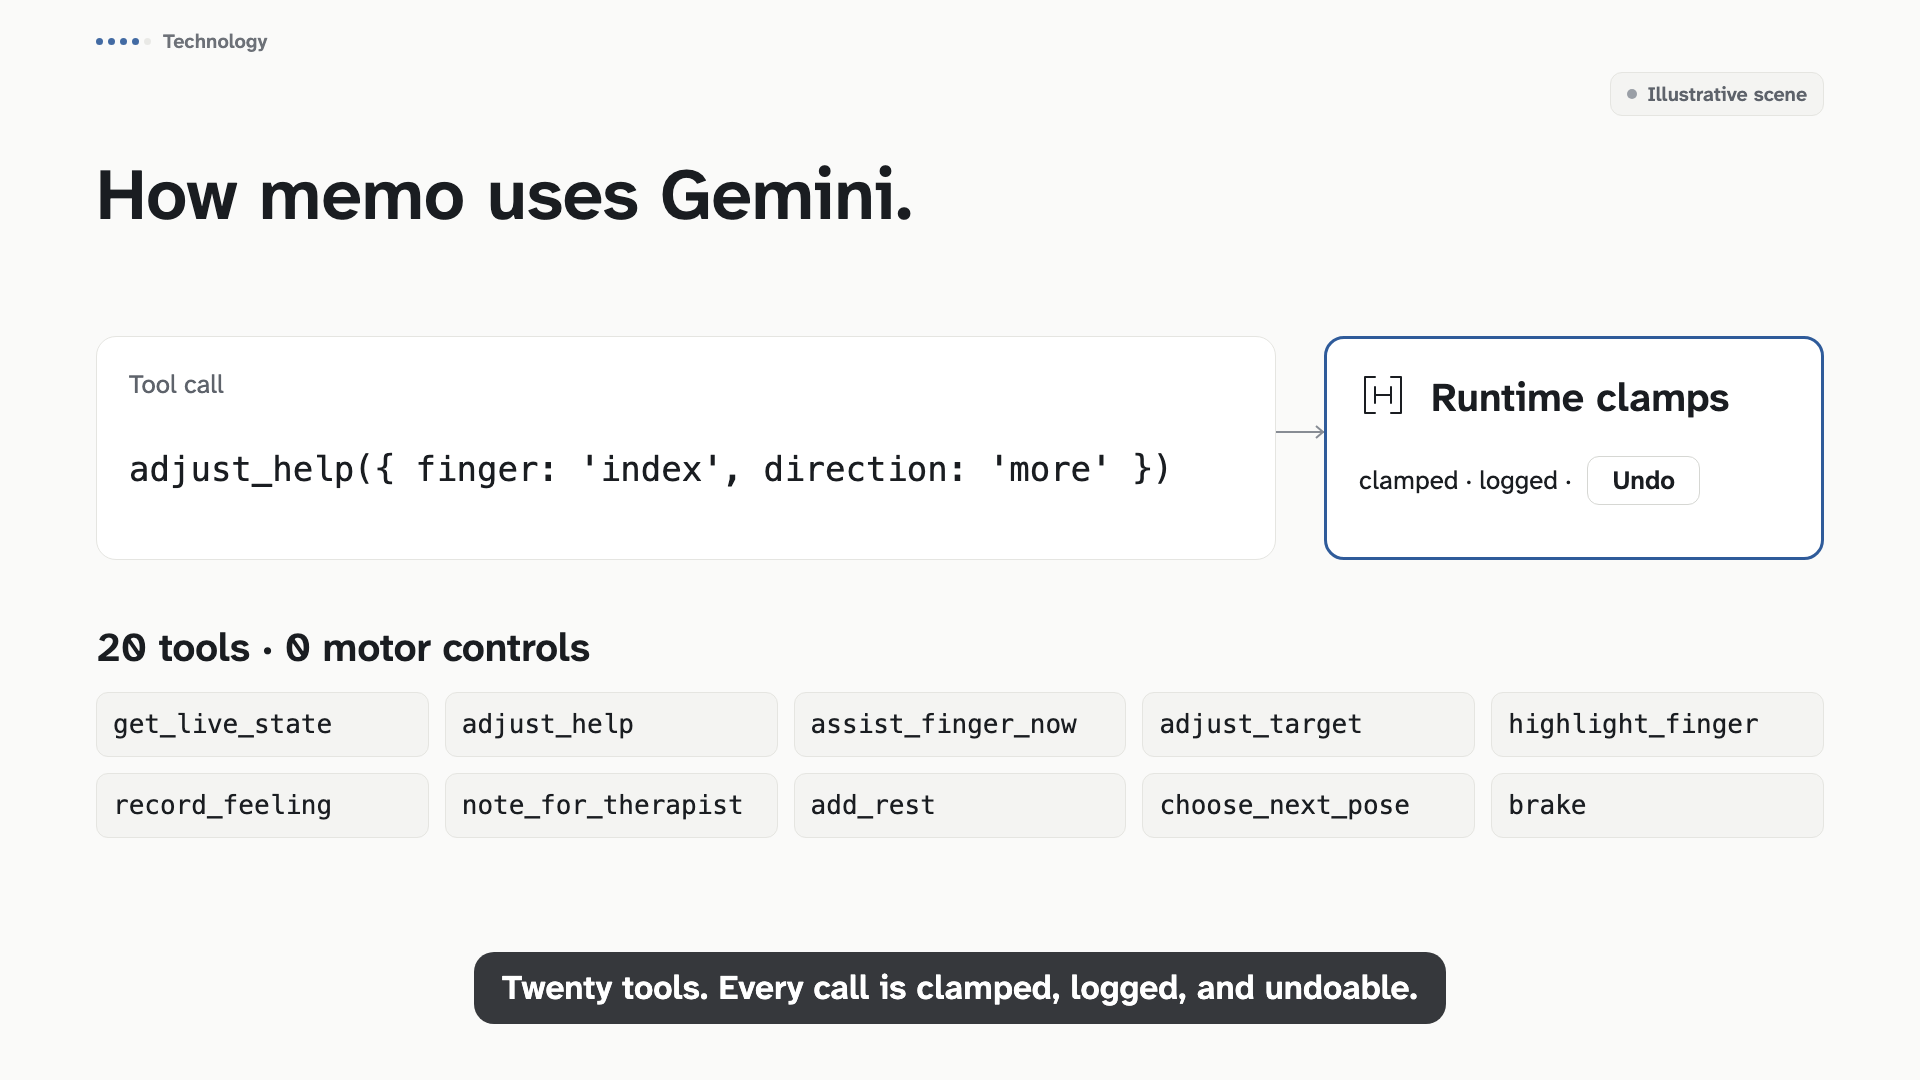
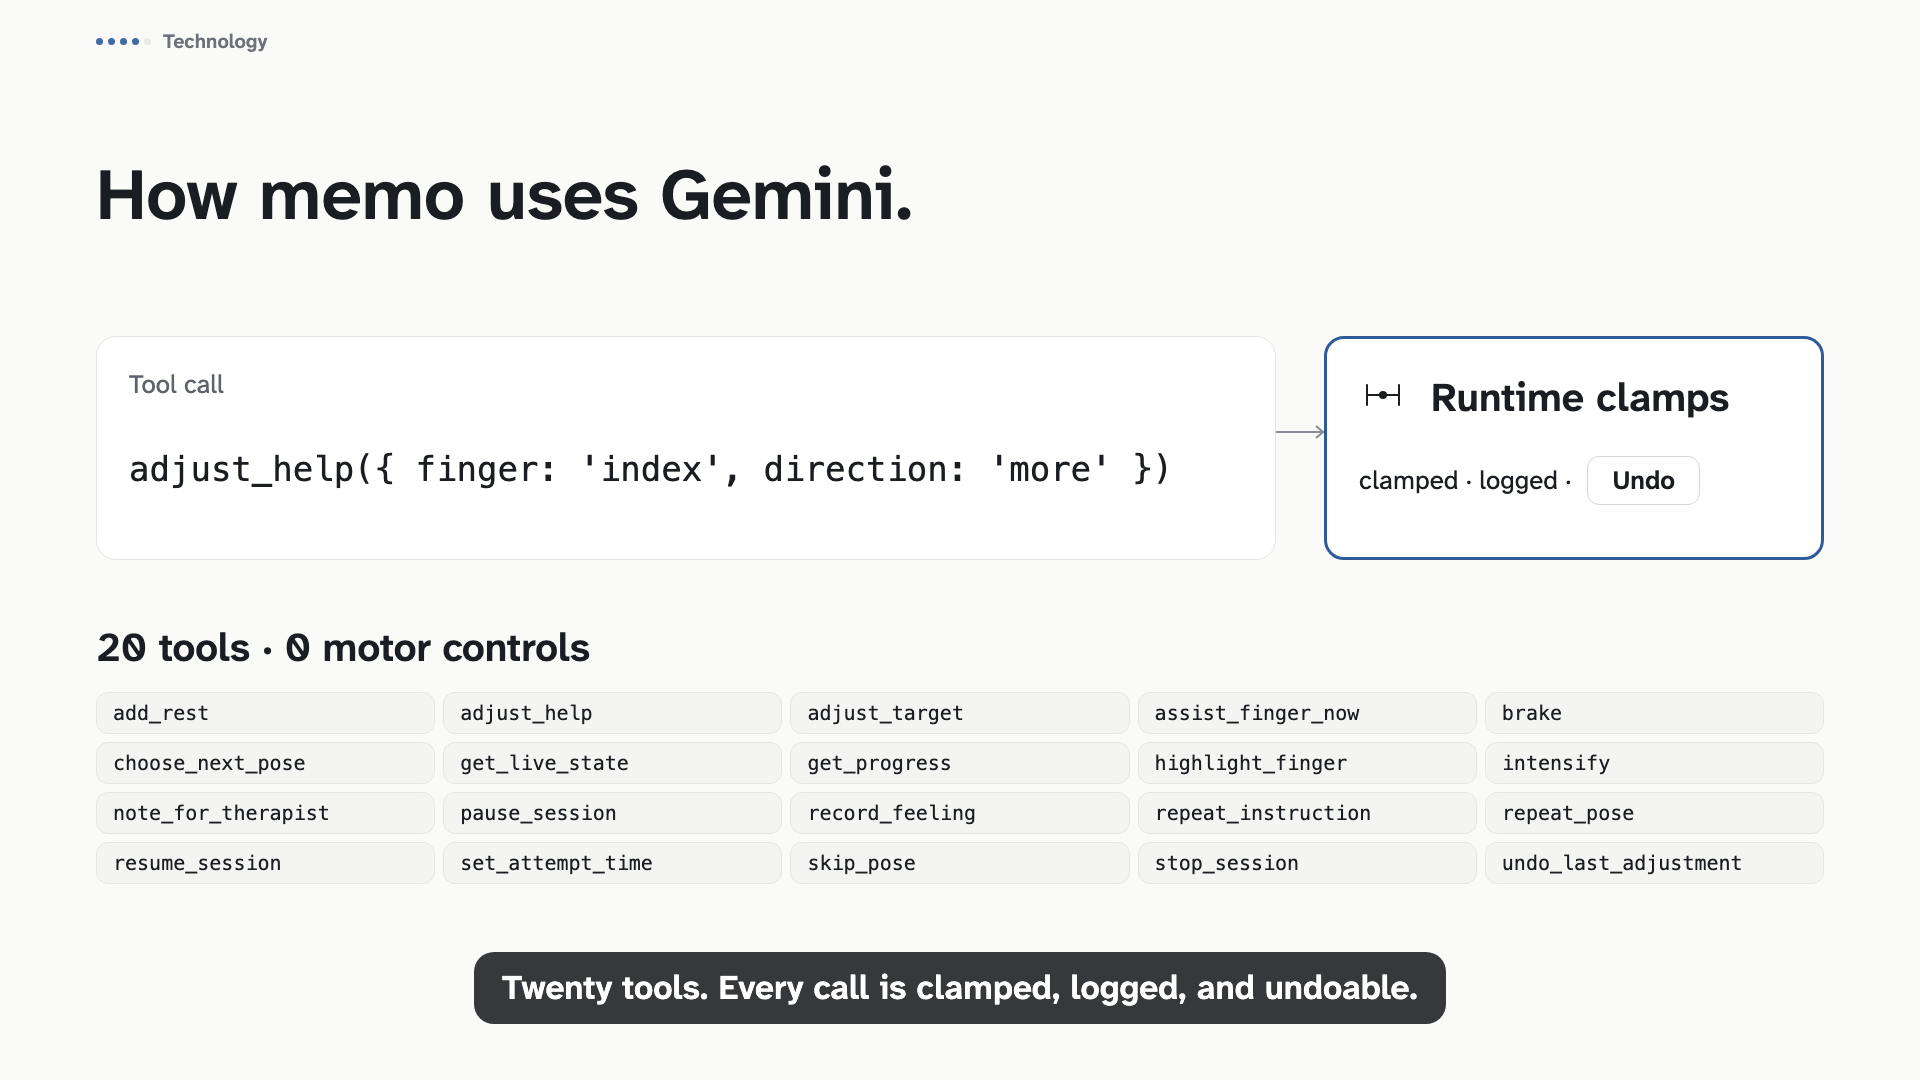
v6: apply coordinator diagram review

diff --git a/video/studio/src/components/gemini/Diagram.tsx b/video/studio/src/components/gemini/Diagram.tsx
@@ -4,6 +4,14 @@ import { T } from '../brand';
 import { COPY } from '../../script';
 import { Card, enter, Icon, type IconName, Line, mono, ToolGrid, Waveform } from './primitives';
 
+// All 20 function declarations from backend/app/voice/tools.py. COPY lists a subset.
+const coachTools = [
+  'add_rest', 'adjust_help', 'adjust_target', 'assist_finger_now', 'brake',
+  'choose_next_pose', 'get_live_state', 'get_progress', 'highlight_finger', 'intensify',
+  'note_for_therapist', 'pause_session', 'record_feeling', 'repeat_instruction', 'repeat_pose',
+  'resume_session', 'set_attempt_time', 'skip_pose', 'stop_session', 'undo_last_adjustment',
+] as const;
+
 const nodes = [
   { x: 96, width: 304, icon: 'voice' },
   { x: 448, width: 300, icon: 'voice' },
@@ -82,7 +90,7 @@ export const BoundedCall: React.FC<{ frame: number }> = ({ frame }) => {
       <T size="h3" style={{ position: 'absolute', left: safe.x, top: 624, opacity: enter(frame, 150) }}>
         {COPY.gemini.toolCount}
       </T>
-      <ToolGrid tools={COPY.gemini.tools} frame={frame} start={156} style={{ left: safe.x, right: safe.x, top: 692 }} />
+      <ToolGrid tools={coachTools} frame={frame} start={156} style={{ left: safe.x, right: safe.x, top: 692 }} />
     </>
   );
 };
@@ -92,20 +100,22 @@ export const MotorBoundary: React.FC<{ frame: number }> = ({ frame }) => {
   return (
     <>
       <T size="h3" style={{ position: 'absolute', left: safe.x, top: 304 }}>{COPY.gemini.toolCount}</T>
-      <ToolGrid tools={COPY.gemini.tools} frame={frame} start={240} columns={3}
-        style={{ left: safe.x, width: 1008, top: 400 }} />
-      <Line path={`M 1104 512 L ${1298 - 34 * cut} 512`} progress={1} />
-      <Line path={`M ${1298 + 34 * cut} 512 L 1492 512`} progress={1} />
-      <div style={{ position: 'absolute', left: 1266, top: 480, width: 64, height: 64, background: c.bg,
+      <ToolGrid tools={coachTools} frame={frame} start={222}
+        style={{ left: safe.x, right: safe.x, top: 400 }} />
+      <Line path={`M 960 592 L 960 672 L ${1298 - 34 * cut} 672`} progress={1} />
+      <Line path={`M ${1298 + 34 * cut} 672 L 1492 672`} progress={1} />
+      <div style={{ position: 'absolute', left: 1266, top: 640, width: 64, height: 64, background: c.bg,
         display: 'grid', placeItems: 'center', opacity: cut }}><Icon name="lock" /></div>
-      <T size="small" w={400} color={c.muted} style={{ position: 'absolute', left: 1120, top: 584, width: 356, textAlign: 'center', opacity: cut }}>
+      <T size="small" w={400} color={c.muted} style={{ position: 'absolute', left: 1120, top: 704, width: 356, textAlign: 'center', opacity: cut }}>
         No direct motor access
       </T>
-      <Card style={{ left: 1492, top: 400, width: 332, height: 224, padding: space.s32,
-        display: 'flex', flexDirection: 'column', justifyContent: 'center', gap: space.s16 }}>
-        <Icon name="engine" />
-        <T size="body" style={{ whiteSpace: 'nowrap' }}>5 micro servos</T>
-        <T size="caption" w={400} color={c.muted}>Beyond the session engine</T>
+      <Card style={{ left: 1492, top: 616, width: 332, height: 112, padding: space.s16,
+        display: 'flex', alignItems: 'center', gap: space.s16 }}>
+        <Icon name="engine" size={32} />
+        <div style={{ display: 'flex', flexDirection: 'column', gap: space.s8 }}>
+          <T size="body" style={{ whiteSpace: 'nowrap' }}>5 micro servos</T>
+          <T size="caption" w={400} color={c.muted}>Beyond the session engine</T>
+        </div>
       </Card>
       <Card style={{ left: safe.x, right: safe.x, top: 752, height: 128, padding: space.s32,
         display: 'flex', gap: space.s32, alignItems: 'center', opacity: enter(frame, 258) }}>

diff --git a/video/studio/src/components/gemini/primitives.tsx b/video/studio/src/components/gemini/primitives.tsx
@@ -1,7 +1,7 @@
 import React from 'react';
 import { evolvePath } from '@remotion/paths';
 import { interpolate } from 'remotion';
-import { c, ease, radius, space, type } from '../../brand/tokens';
+import { c, ease, radius, space } from '../../brand/tokens';
 import { T } from '../brand';
 
 export const enter = (frame: number, start: number, duration = 12) => interpolate(frame, [start, start + duration], [0, 1], {
@@ -32,7 +32,7 @@ export type IconName = 'voice' | 'tools' | 'clamp' | 'engine' | 'lock' | 'text' 
 const iconPaths: Record<IconName, React.ReactNode> = {
   voice: <><rect x={9} y={3} width={6} height={11} rx={3} /><path d="M5 10v1a7 7 0 0 0 14 0v-1M12 18v3M8 21h8" /></>,
   tools: <><path d="m8 5-6 7 6 7M16 5l6 7-6 7M14 3l-4 18" /></>,
-  clamp: <><path d="M8 3H3v18h5M16 3h5v18h-5M8 8v8M16 8v8M8 12h8" /></>,
+  clamp: <><path d="M4 7v10M20 7v10M4 12h16" /><circle cx={12} cy={12} r={2} fill={c.text} stroke="none" /></>,
   engine: <><rect x={5} y={5} width={14} height={14} rx={2} /><rect x={9} y={9} width={6} height={6} rx={1} /><path d="M9 2v3M15 2v3M9 19v3M15 19v3M2 9h3M2 15h3M19 9h3M19 15h3" /></>,
   lock: <><rect x={5} y={10} width={14} height={11} rx={2} /><path d="M8 10V6a4 4 0 0 1 8 0v4M12 14v3" /></>,
   text: <><path d="M14 2H5a2 2 0 0 0-2 2v16a2 2 0 0 0 2 2h14a2 2 0 0 0 2-2V9ZM14 2v7h7M7 13h10M7 17h7" /></>,
@@ -60,16 +60,16 @@ export const Waveform: React.FC<{ frame: number }> = ({ frame }) => (
   </svg>
 );
 
-export const ToolGrid: React.FC<{ tools: readonly string[]; frame: number; start: number; columns?: number; style?: React.CSSProperties }> = ({
-  tools, frame, start, columns = 5, style,
+export const ToolGrid: React.FC<{ tools: readonly string[]; frame: number; start: number; style?: React.CSSProperties }> = ({
+  tools, frame, start, style,
 }) => (
-  <div style={{ position: 'absolute', display: 'grid', gridTemplateColumns: `repeat(${columns}, 1fr)`, gap: space.s16, ...style }}>
+  <div style={{ position: 'absolute', display: 'grid', gridTemplateColumns: 'repeat(5, minmax(0, 1fr))', gap: space.s8, ...style }}>
     {tools.map((tool, i) => (
       <div key={tool} style={{
         background: c.surface2, border: `1px solid ${c.border}`, borderRadius: radius.input,
-        padding: `${space.s16}px ${space.s16}px`, opacity: enter(frame, start + Math.floor(i / columns) * 6),
+        padding: `${space.s8}px ${space.s16}px`, opacity: enter(frame, start + Math.floor(i / 5) * 6),
       }}>
-        <T size="small" w={400} style={{ fontFamily: mono, fontSize: type.small, whiteSpace: 'nowrap' }}>{tool}</T>
+        <T size="caption" w={400} style={{ fontFamily: mono, whiteSpace: 'nowrap' }}>{tool}</T>
       </div>
     ))}
   </div>

diff --git a/video/studio/src/scenes/Gemini.tsx b/video/studio/src/scenes/Gemini.tsx
@@ -1,7 +1,7 @@
 import React from 'react';
 import { useCurrentFrame } from 'remotion';
 import { safe } from '../brand/tokens';
-import { Badge, Fill, T } from '../components/brand';
+import { Fill, T } from '../components/brand';
 import { BoundedCall, MotorBoundary, SpeechFlow, Uses } from '../components/gemini/Diagram';
 import { enter } from '../components/gemini/primitives';
 import { COPY } from '../script';
@@ -10,7 +10,6 @@ export const Gemini: React.FC = () => {
   const frame = useCurrentFrame();
   return (
     <Fill>
-      <Badge kind="illustrative" style={{ position: 'absolute', top: safe.y, right: safe.x }} />
       <T size="h1" style={{ position: 'absolute', top: 152, left: safe.x, right: safe.x, opacity: enter(frame, 0) }}>
         {COPY.gemini.title}
       </T>
